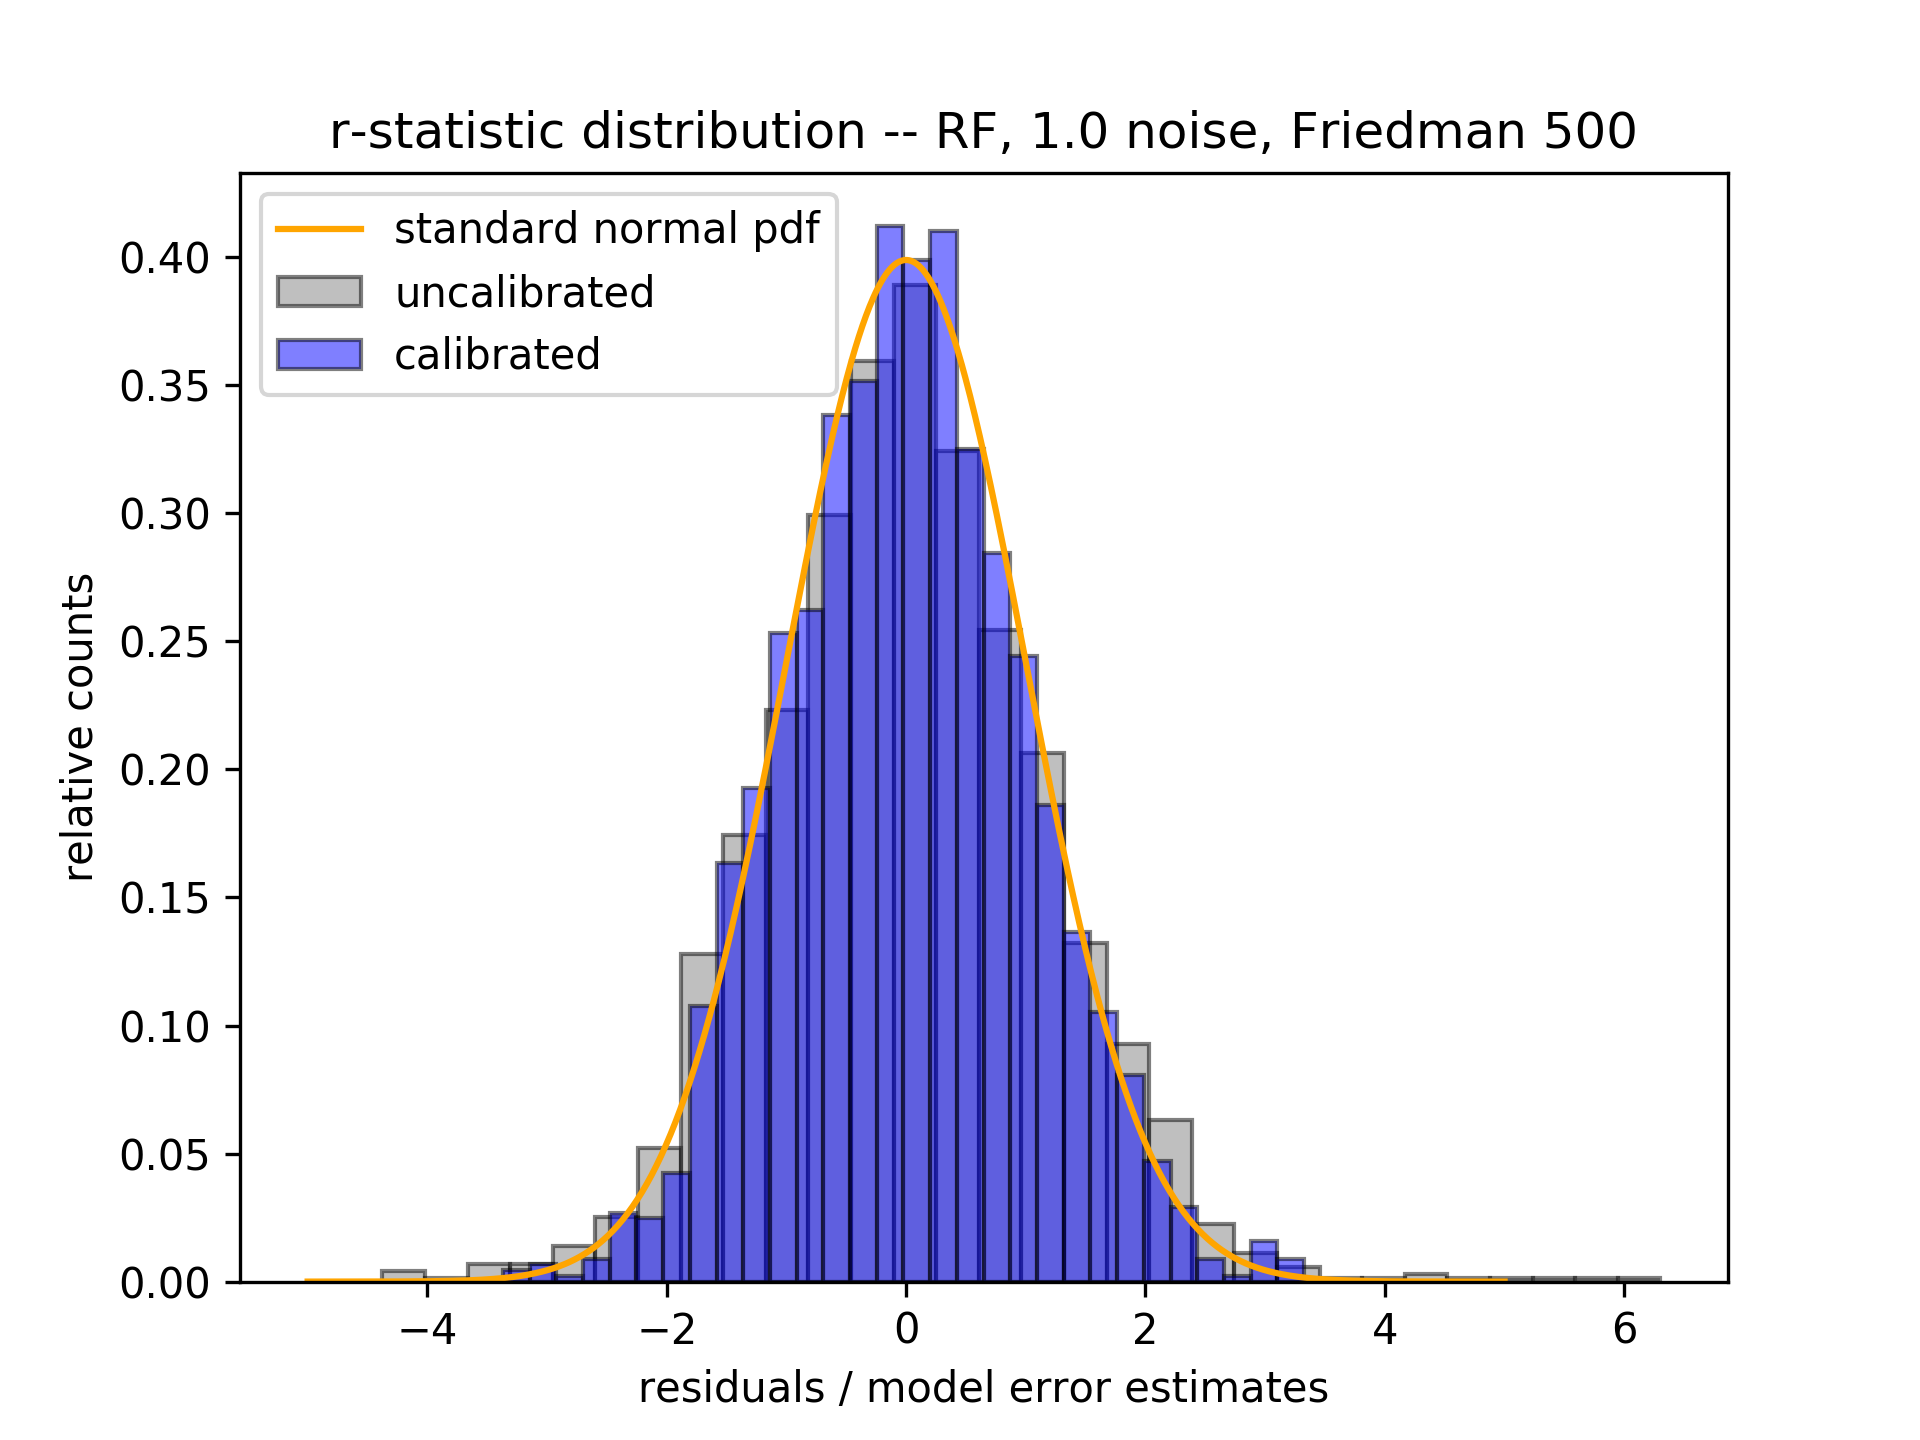
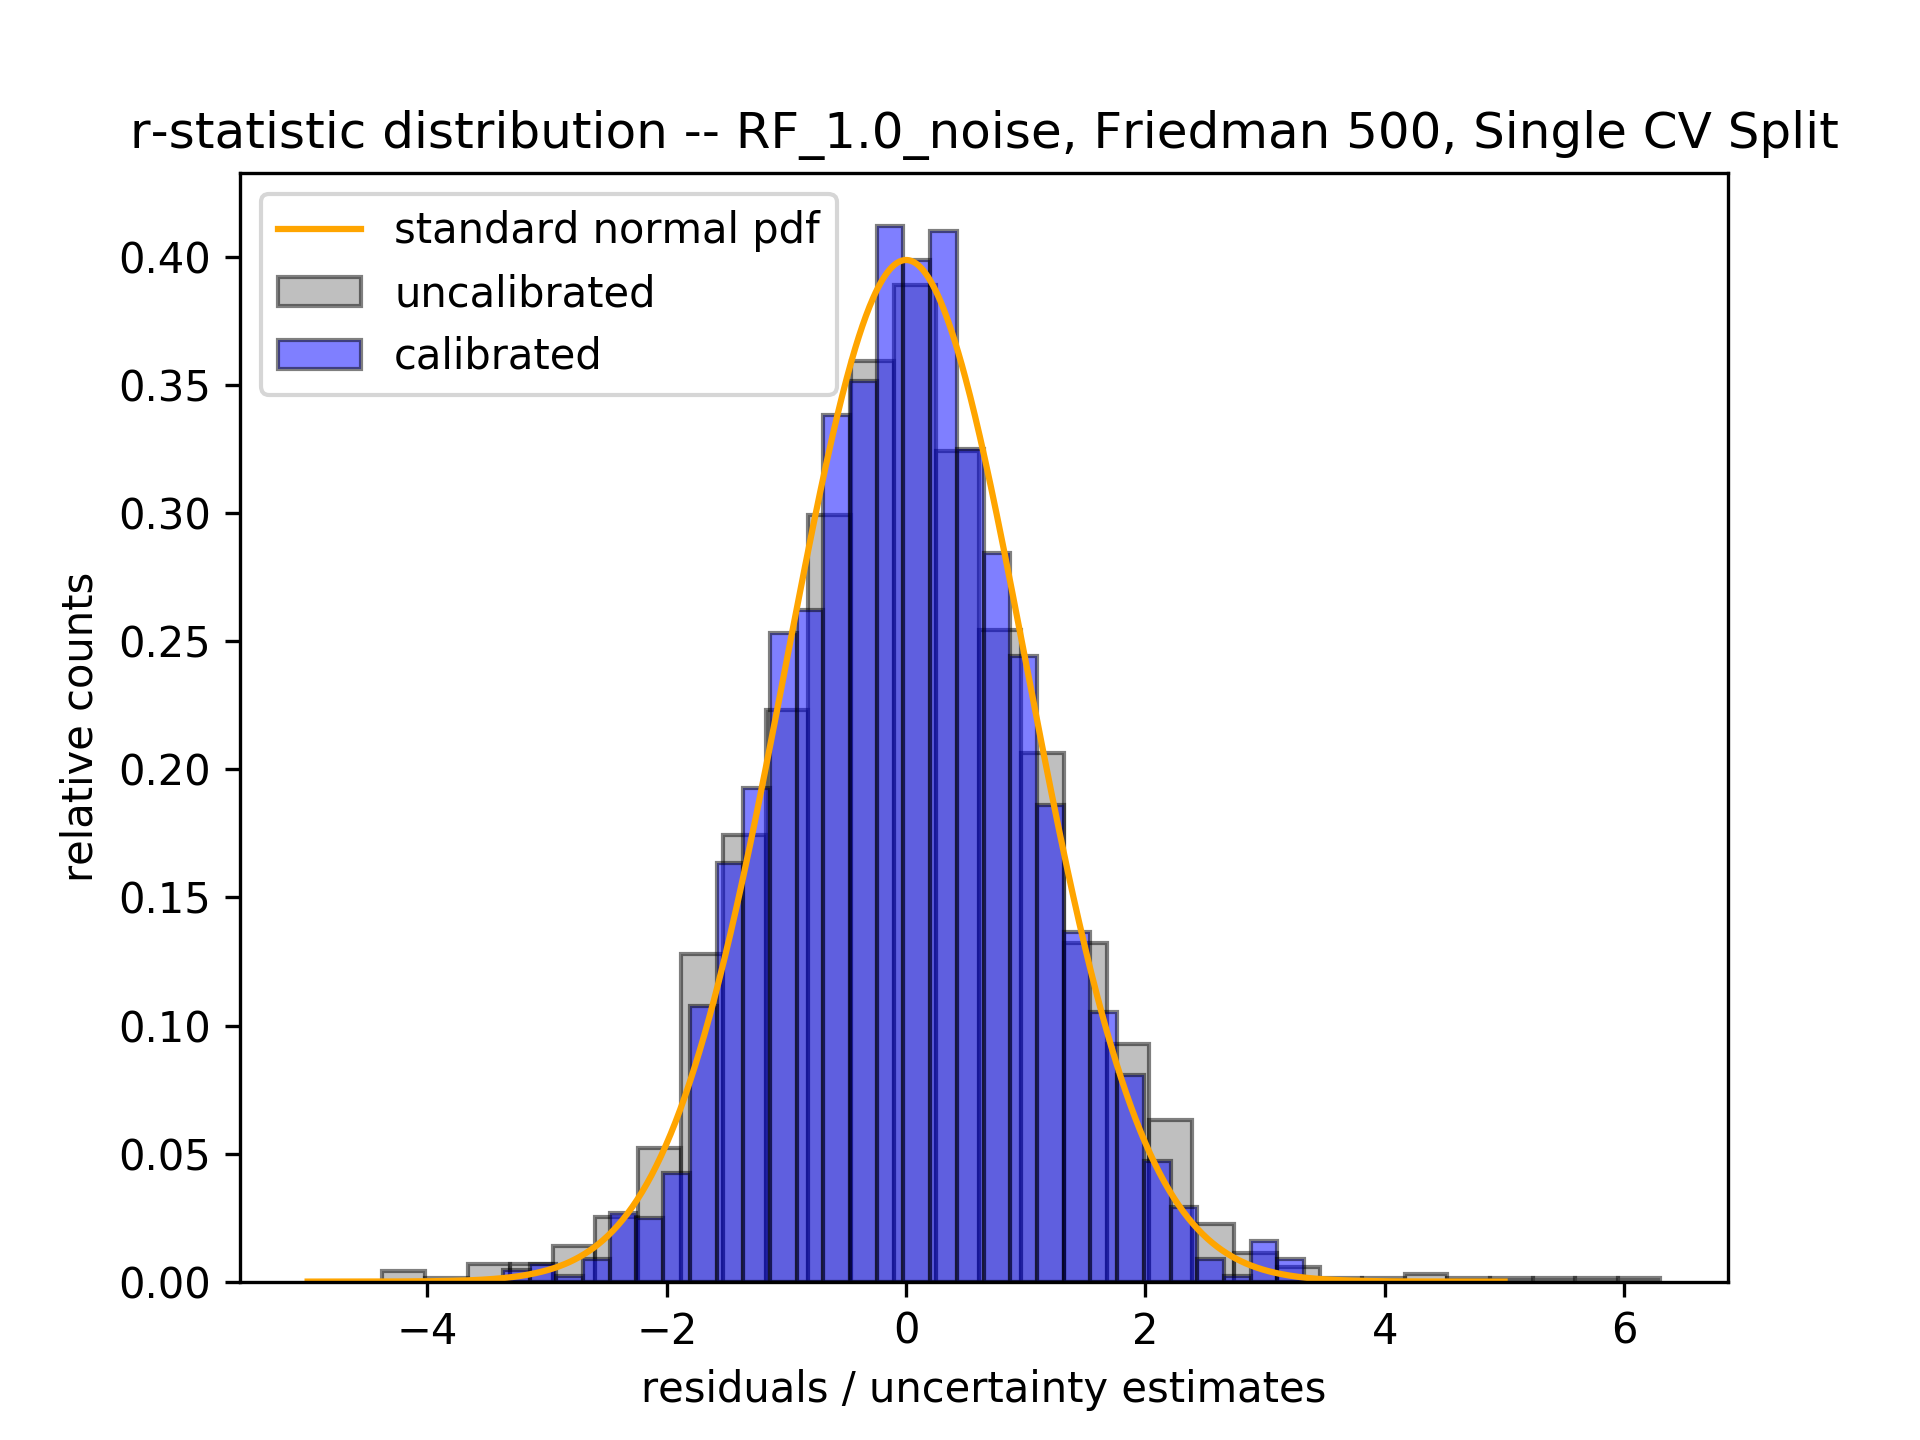
updated plots with poorly sampled points not filled in

Changed region(s): [[0.0938, 0.0625, 0.9688, 0.125], [0.3438, 0.9375, 0.6875, 0.9688]]

diff --git a/package/MakePlot.py b/package/MakePlot.py
@@ -530,13 +530,41 @@ class MakePlot:
         ax.set_xlabel('uncertainty estimates')
         ax.set_ylabel('RMS residuals')
         # unscaled stuff
-        ax.plot(unscaled_binned_model_errors, unscaled_RMS_abs_res, 'o', color='grey', alpha=0.5)
+        # separate well-sampled data (> 30 points) from poorly-sampled data
+        unscaled_binned_model_errors_under30 = []
+        unscaled_binned_model_errors_over30 = []
+        unscaled_RMS_abs_res_under30 = []
+        unscaled_RMS_abs_res_over30 = []
+        for i in range(0, len(unscaled_binned_model_errors)):
+            if unscaled_weights[i] > 30:
+                unscaled_binned_model_errors_over30.append(unscaled_binned_model_errors[i])
+                unscaled_RMS_abs_res_over30.append(unscaled_RMS_abs_res[i])
+            else:
+                unscaled_binned_model_errors_under30.append(unscaled_binned_model_errors[i])
+                unscaled_RMS_abs_res_under30.append(unscaled_RMS_abs_res[i])
+        #ax.plot(unscaled_binned_model_errors, unscaled_RMS_abs_res, 'o', color='grey', alpha=0.5)
+        ax.plot(unscaled_binned_model_errors_over30, unscaled_RMS_abs_res_over30, 'o', mec='grey', mfc='grey', alpha=0.5)
+        ax.plot(unscaled_binned_model_errors_under30, unscaled_RMS_abs_res_under30, 'o', mec='grey', mfc='none', alpha=0.5)
         ax.plot(unscaled_xfit, unscaled_yfit, color='grey', label='fitted line (uncalibrated)', alpha=0.5)
         #ax.text(0.04, 0.92, '$R^2$ = %.3f' % (r_squared), transform=ax.transAxes)
         #ax.text(0.04, 0.85, 'slope = %.3f' % (slope), transform=ax.transAxes)
         #ax.text(0.04, 0.78, 'y-intercept = %.3f' % (intercept), transform=ax.transAxes)
         # scaled stuff
-        ax.plot(scaled_binned_model_errors, scaled_RMS_abs_res, 'o', color='blue', alpha=0.5)
+        # separate well-sampled data (> 30 points) from poorly-sampled data
+        scaled_binned_model_errors_under30 = []
+        scaled_binned_model_errors_over30 = []
+        scaled_RMS_abs_res_under30 = []
+        scaled_RMS_abs_res_over30 = []
+        for i in range(0, len(scaled_binned_model_errors)):
+            if scaled_weights[i] > 30:
+                scaled_binned_model_errors_over30.append(scaled_binned_model_errors[i])
+                scaled_RMS_abs_res_over30.append(scaled_RMS_abs_res[i])
+            else:
+                scaled_binned_model_errors_under30.append(scaled_binned_model_errors[i])
+                scaled_RMS_abs_res_under30.append(scaled_RMS_abs_res[i])
+        #ax.plot(scaled_binned_model_errors, scaled_RMS_abs_res, 'o', color='blue', alpha=0.5)
+        ax.plot(scaled_binned_model_errors_over30, scaled_RMS_abs_res_over30, 'o', mec='blue', mfc='blue', alpha=0.75)
+        ax.plot(scaled_binned_model_errors_under30, scaled_RMS_abs_res_under30, 'o', mec='blue', mfc='none', alpha=0.75)
         ax.plot(scaled_xfit, scaled_yfit, color='blue', label='fitted line (calibrated)', alpha=0.5)
         #ax.text(0.04, 0.92, '$R^2$ = %.3f' % (r_squared), transform=ax.transAxes)
         #ax.text(0.04, 0.85, 'slope = %.3f' % (slope), transform=ax.transAxes)

diff --git a/make_synth_cv_plot_from_data.py b/make_synth_cv_plot_from_data.py
@@ -2,7 +2,7 @@ import matplotlib
 from package import MakePlot as mp
 import numpy as np
 
-models = ["RF", "LR", "GPR_Bayesian", "GPR"]
+models = ["RF_0.1_noise", "RF_0.5_noise", "RF_1.0_noise", "RF_2.0_noise", "RF", "LR", "GPR", "GPR_Bayesian"]
 save_plot = True
 
 for model in models:
@@ -21,13 +21,24 @@ for model in models:
     #MP.make_rve_with_bin_counts_and_slope_1_line(residuals, model_errors, "{}, Friedman 500, Unscaled, Single CV Split".format(model), save=save_plot, file_name='Supplemental_Info/Friedman_500/5-Fold/{}/CV_Plots/unscaled_RvE_with_counts.png'.format(model))
     #MP.make_rve_with_bin_counts_and_slope_1_line(residuals, scaled_model_errors, "{}, Friedman 500, Scaled, Single CV Split".format(model), save=save_plot, file_name='Supplemental_Info/Friedman_500/5-Fold/{}/CV_Plots/scaled_RvE_with_counts.png'.format(model))
 
-    MP.make_rstat_overlay_with_table(residuals, unscaled_model_errors, scaled_model_errors,
+    MP.make_rstat_overlay(residuals, unscaled_model_errors, scaled_model_errors,
                                      "{}, Friedman 500, Single CV Split".format(model), save=save_plot,
                                      file_name='Supplemental_Info/Friedman_500/5-Fold/{}/CV_Plots/rstat_overlay.png'.format(
                                          model))
 
-    MP.make_rve_overlay_with_table(residuals, unscaled_model_errors, scaled_model_errors,
+    MP.make_rve_overlay(residuals, unscaled_model_errors, scaled_model_errors,
                                    "{}, Friedman 500, Single CV Split".format(model),
                                    save=save_plot,
                                    file_name='Supplemental_Info/Friedman_500/5-Fold/{}/CV_Plots/RvE_overlay.png'.format(
                                        model))
+
+    MP.make_rstat_overlay_with_table(residuals, unscaled_model_errors, scaled_model_errors,
+                          "{}, Friedman 500, Single CV Split".format(model), save=save_plot,
+                          file_name='Supplemental_Info/Friedman_500/5-Fold/{}/CV_Plots/rstat_overlay_table.png'.format(
+                              model))
+
+    MP.make_rve_overlay_with_table(residuals, unscaled_model_errors, scaled_model_errors,
+                        "{}, Friedman 500, Single CV Split".format(model),
+                        save=save_plot,
+                        file_name='Supplemental_Info/Friedman_500/5-Fold/{}/CV_Plots/RvE_overlay_table.png'.format(
+                            model))

diff --git a/make_synth_test_plot_from_data.py b/make_synth_test_plot_from_data.py
@@ -2,7 +2,7 @@ import matplotlib
 from package import MakePlot as mp
 import numpy as np
 
-models = ["RF", "LR", "GPR_Bayesian", "GPR"]
+models = ["RF_0.1_noise", "RF_0.5_noise", "RF_1.0_noise", "RF_2.0_noise", "RF", "LR", "GPR", "GPR_Bayesian"]
 save_plot = True
 
 for model in models:
@@ -22,13 +22,24 @@ for model in models:
     #MP.make_rve_with_bin_counts_and_slope_1_line(residuals, scaled_model_errors, "{}, Friedman 500, Scaled".format(model), save=save_plot, file_name='Supplemental_Info/Friedman_500/5-Fold/{}/Test_Plots/scaled_RvE_with_counts.png'.format(model))
 
     # overlay plots
-    MP.make_rstat_overlay_with_table(residuals, unscaled_model_errors, scaled_model_errors,
+    MP.make_rstat_overlay(residuals, unscaled_model_errors, scaled_model_errors,
                                      "{}, Friedman 500".format(model), save=save_plot,
                                      file_name='Supplemental_Info/Friedman_500/5-Fold/{}/Test_Plots/rstat_overlay.png'.format(
                                          model))
 
-    MP.make_rve_overlay_with_table(residuals, unscaled_model_errors, scaled_model_errors,
+    MP.make_rve_overlay(residuals, unscaled_model_errors, scaled_model_errors,
                                    "{}, Friedman 500".format(model),
                                    save=save_plot,
                                    file_name='Supplemental_Info/Friedman_500/5-Fold/{}/Test_Plots/RvE_overlay.png'.format(
                                        model))
+
+    MP.make_rstat_overlay_with_table(residuals, unscaled_model_errors, scaled_model_errors,
+                          "{}, Friedman 500".format(model), save=save_plot,
+                          file_name='Supplemental_Info/Friedman_500/5-Fold/{}/Test_Plots/rstat_overlay_table.png'.format(
+                              model))
+
+    MP.make_rve_overlay_with_table(residuals, unscaled_model_errors, scaled_model_errors,
+                        "{}, Friedman 500".format(model),
+                        save=save_plot,
+                        file_name='Supplemental_Info/Friedman_500/5-Fold/{}/Test_Plots/RvE_overlay_table.png'.format(
+                            model))

diff --git a/make_realdata_cv_plot_from_data.py b/make_realdata_cv_plot_from_data.py
@@ -2,8 +2,8 @@ import matplotlib
 from package import MakePlot as mp
 import numpy as np
 
-models = ["GPR"]
-dataset = "Diffusion"
+models = ["LR", "RF", "GPR_Bayesian"]
+dataset = "Perovskite"
 save_plot = True
 
 for model in models:
@@ -31,4 +31,15 @@ for model in models:
     MP.make_rve_overlay(residuals, unscaled_model_errors, scaled_model_errors, "{}, {}, Single CV Split".format(model, dataset),
                         save=save_plot,
                         file_name='Supplemental_Info/{}/5-Fold/{}/CV_Plots/RvE_overlay.png'.format(
+                            dataset, model))
+    MP.make_rstat_overlay_with_table(residuals, unscaled_model_errors, scaled_model_errors,
+                          "{}, {}, Single CV Split".format(model, dataset),
+                          save=save_plot,
+                          file_name='Supplemental_Info/{}/5-Fold/{}/CV_Plots/rstat_overlay_table.png'.format(
+                              dataset, model))
+
+    MP.make_rve_overlay_with_table(residuals, unscaled_model_errors, scaled_model_errors,
+                        "{}, {}, Single CV Split".format(model, dataset),
+                        save=save_plot,
+                        file_name='Supplemental_Info/{}/5-Fold/{}/CV_Plots/RvE_overlay_table.png'.format(
                             dataset, model))

diff --git a/make_realdata_test_plot_from_data.py b/make_realdata_test_plot_from_data.py
@@ -2,8 +2,8 @@ import matplotlib
 from package import MakePlot as mp
 import numpy as np
 
-models = ["GPR"]
-dataset = "Diffusion"
+models = ["LR", "RF", "GPR_Bayesian"]
+dataset = "Perovskite"
 save_plot = True
 
 for model in models:
@@ -31,4 +31,14 @@ for model in models:
     MP.make_rve_overlay(residuals, unscaled_model_errors, scaled_model_errors, "{}, {}".format(model, dataset),
                         save=save_plot,
                         file_name='Supplemental_Info/{}/5-Fold/{}/Test_Plots/RvE_overlay.png'.format(
+                            dataset, model))
+
+    MP.make_rstat_overlay_with_table(residuals, unscaled_model_errors, scaled_model_errors, "{}, {}".format(model, dataset),
+                          save=save_plot,
+                          file_name='Supplemental_Info/{}/5-Fold/{}/Test_Plots/rstat_overlay_table.png'.format(
+                              dataset, model))
+
+    MP.make_rve_overlay_with_table(residuals, unscaled_model_errors, scaled_model_errors, "{}, {}".format(model, dataset),
+                        save=save_plot,
+                        file_name='Supplemental_Info/{}/5-Fold/{}/Test_Plots/RvE_overlay_with_table.png'.format(
                             dataset, model))
